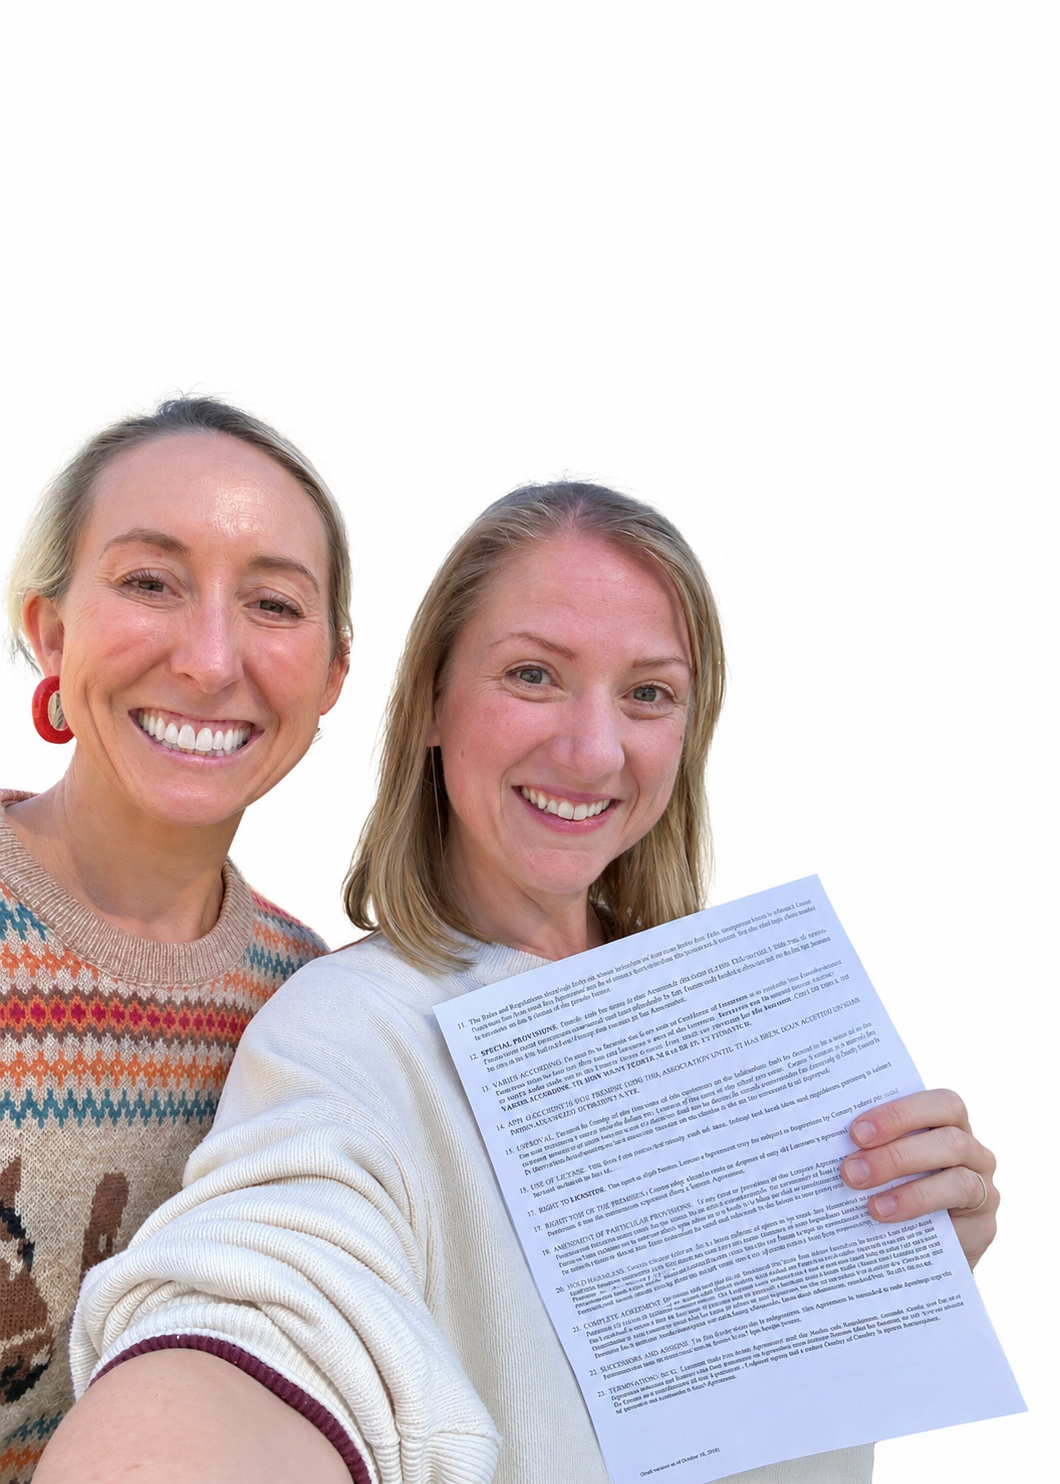
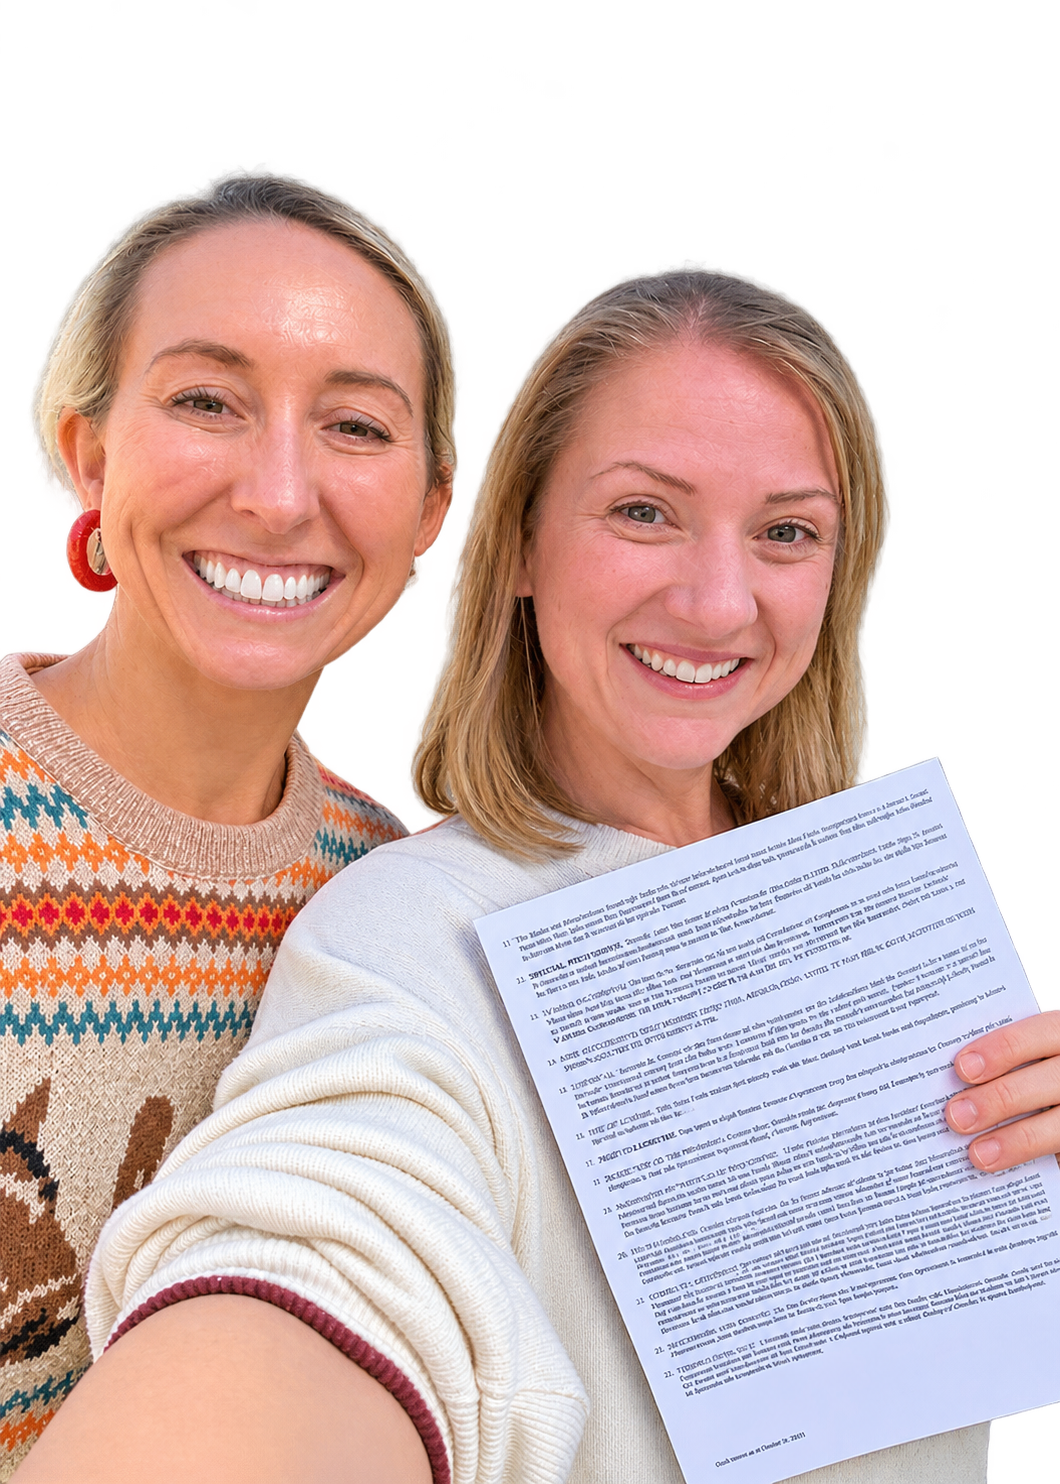
'wip'

diff --git a/src/EventsCalendar.jsx b/src/EventsCalendar.jsx
@@ -2,7 +2,51 @@ import { useState } from "react";
 import "./EventsCalendar.css";
 
 const asset = (path) => `${import.meta.env.BASE_URL}${path}`;
-
+const ivrpdClasses = [
+  {
+    id: "adult-yoga",
+    days: [4, 11, 18],
+    title: "Adult Yoga",
+    time: "8:30–9:15 AM",
+    flyer: "adult-yoga.png",
+  },
+  {
+    id: "seniors-yoga",
+    days: [4, 11, 18],
+    title: "Serenity Seniors Yoga",
+    time: "10–10:45 AM",
+    flyer: "seniors-yoga.png",
+  },
+  {
+    id: "daddy-daughter-dance",
+    days: [5, 12, 19],
+    title: "Daddy Daughter Dance",
+    time: "11:15–11:45 AM",
+    flyer: "daddy-daughter-dance.jpg",
+  },
+  {
+    id: "cheerleading",
+    days: [5, 12, 19],
+    title: "Cheerleading Skills",
+    time: "3:15–4 PM",
+    flyer: "cheerleading.png",
+  },
+  {
+    id: "fall-ceramic-painting",
+    days: [11],
+    title: "Fall Ceramic Painting",
+    time: "1–2:30 PM",
+    location: "Indian Valley Academy Makerspace, 117 Grand St., Greenville",
+    flyer: "fall-ceramic-painting.png",
+  },
+].flatMap(({ id, days, location, ...details }) =>
+  days.map((day) => ({
+    ...details,
+    id: `${id}-${day}`,
+    day,
+    location: location ?? "IVRPD Dance Studio, Room 401, 117 Grand St., Greenville",
+  }))
+);
 const events = [
   {
     id: "museum-dinner",
@@ -69,7 +113,8 @@ const events = [
     description:
       "Participants: line up on Cemetery Road, single file on the museum side. Bring completed entry forms for collection during lineup. Questions: Laura Kearns, histayhall@gmail.com, (619) 838-2420.",
   },
-];
+  ...ivrpdClasses,
+].sort((a, b) => a.day - b.day);
 
 // Events without a confirmed ending are saved with their start time only.
 function googleLink(event) {
@@ -168,27 +213,40 @@ function EventDetails({ event }) {
       <div className="calendar-event__body">
         <p>{event.time}</p>
         <p>{event.location}</p>
-        <p>{event.description}</p>
+        {event.description && <p>{event.description}</p>}
 
-        {event.url && (
-          <a href={event.url} target="_blank" rel="noopener noreferrer">
-            {event.linkLabel} ↗
-          </a>
-        )}
-
-        <div className="calendar-event__actions">
+        {event.flyer ? (
           <a
-            href={googleLink(event)}
+            href={asset(`images/${event.flyer}`)}
             target="_blank"
             rel="noopener noreferrer"
+            aria-label={`View the ${event.title} flyer in a new tab`}
           >
-            Google Calendar ↗
+            View Flyer
           </a>
+        ) : (
+          <>
+            {event.url && (
+              <a href={event.url} target="_blank" rel="noopener noreferrer">
+                {event.linkLabel}
+              </a>
+            )}
 
-          <button type="button" onClick={() => downloadEvent(event)}>
-            Apple / Outlook ↓
-          </button>
-        </div>
+            <div className="calendar-event__actions">
+              <a
+                href={googleLink(event)}
+                target="_blank"
+                rel="noopener noreferrer"
+              >
+                Google Calendar
+              </a>
+
+              <button type="button" onClick={() => downloadEvent(event)}>
+                Apple / Outlook
+              </button>
+            </div>
+          </>
+        )}
       </div>
     </details>
   );
@@ -227,9 +285,10 @@ export default function EventsCalendar() {
           <p className="eyebrow">Around Indian Valley</p>
           <h1>November 2026</h1>
           <p>Community gatherings & seasonal traditions.</p>
-          <span className="events-hint">
-            Select an event to explore details and add it to your calendar.
-          </span>
+       <span className="events-hint">
+  Select an event to see details, view a flyer, or add it to your calendar
+  where available.
+</span>
         </header>
 
         <div className="month-calendar">

diff --git a/src/EventsCalendar.css b/src/EventsCalendar.css
@@ -177,3 +177,48 @@
     font-size: 13px;
   }
 }
+
+.events-heading > .eyebrow,
+.events-hint,
+.month-calendar__weekday {
+  font-size: 14px;
+}
+
+.events-heading > p:not(.eyebrow) {
+  font-size: 18px;
+}
+
+.month-calendar__day > time,
+.events-mobile__day > time,
+.calendar-event__body,
+.events-looking-ahead p,
+.events-looking-ahead a {
+  font-size: 16px;
+}
+
+.calendar-event summary {
+  font-size: 16px;
+  line-height: 1.45;
+  overflow-wrap: anywhere;
+}
+
+.navbar__link[href="#newsletter"] {
+  font-size: 16px;
+}
+
+@media (max-width: 900px) {
+  .events-mobile summary {
+    font-size: 18px;
+  }
+
+  .events-mobile .calendar-event__body {
+    font-size: 16px;
+  }
+}
+
+@media (max-width: 640px) {
+  .navbar__link[href="#newsletter"] {
+    max-width: 9rem;
+    font-size: 15px;
+  }
+}
